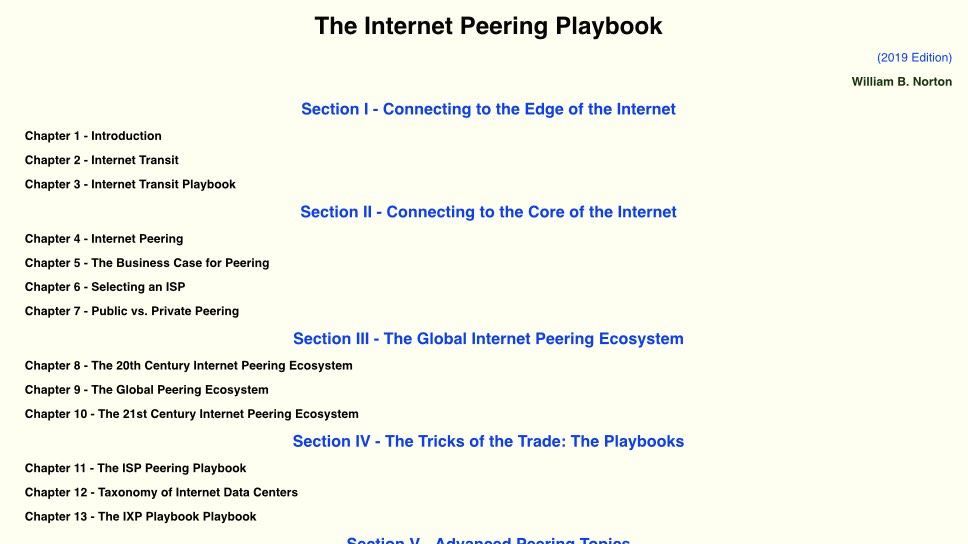
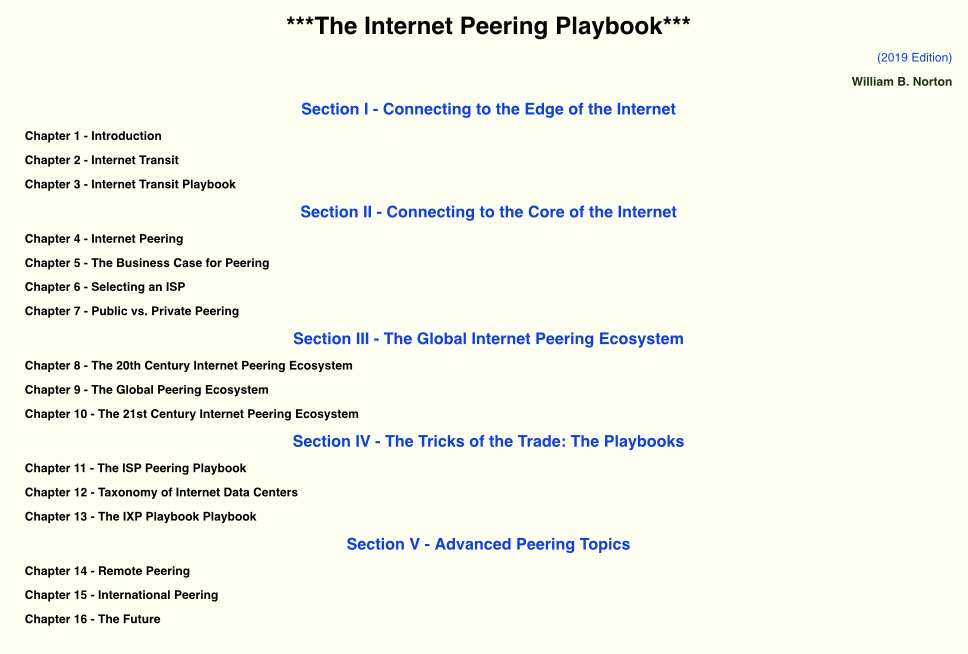
getting set up

diff --git a/index.hyperesources/index_hype_generated_script.js b/index.hyperesources/index_hype_generated_script.js
@@ -3,5 +3,5 @@
 (function(){(function k(){function l(a,b,d){var c=!1;null==window[a]&&(null==window[b]?(window[b]=[],window[b].push(k),a=document.getElementsByTagName("head")[0],b=document.createElement("script"),c=h,false==!0&&(c=""),b.type="text/javascript",b.src=c+"/"+d,a.appendChild(b)):window[b].push(k),c=!0);return c}var h="index.hyperesources",c="index",e="index_hype_container";if(false==!1)try{for(var f=document.getElementsByTagName("script"),
 a=0;a<f.length;a++){var b=f[a].src,d=null!=b?b.indexOf("/index_hype_generated_script.js"):-1;if(-1!=d){h=b.substr(0,d);break}}}catch(n){}if(false==!1&&(a=navigator.userAgent.match(/MSIE (\d+\.\d+)/),a=parseFloat(a&&a[1])||null,a=l("HYPE_596","HYPE_dtl_596",!0==(null!=a&&10>a||false==!0)?"HYPE-596.full.min.js":"HYPE-596.thin.min.js"),false==!0&&(a=a||l("HYPE_w_596","HYPE_wdtl_596","HYPE-596.waypoints.min.js")),a))return;f=window.HYPE.documents;
 if(null!=f[c]){b=1;a=c;do c=""+a+"-"+b++;while(null!=f[c]);d=document.getElementsByTagName("div");b=!1;for(a=0;a<d.length;a++)if(d[a].id==e&&null==d[a].getAttribute("HYP_dn")){var b=1,g=e;do e=""+g+"-"+b++;while(null!=document.getElementById(e));d[a].id=e;b=!0;break}if(!1==b)return}b=[];b=[];d={};g={};for(a=0;a<b.length;a++)try{g[b[a].identifier]=b[a].name,d[b[a].name]=eval("(function(){return "+b[a].source+"})();")}catch(m){window.console&&window.console.log(m),d[b[a].name]=
-function(){}}a=new HYPE_596(c,e,{"0":{n:"jquery-3.2.1.min.js"},"-1":{n:"PIE.htc"},"-2":{n:"blank.gif"}},h,[],d,[{n:"Table of Contents",o:"113",X:[0,1,2]}],[{o:"122",p:"600px",cA:false,Y:320,Z:568,L:[],c:"#FF7B00",bY:1,d:320,U:{},T:{kTimelineDefaultIdentifier:{i:"kTimelineDefaultIdentifier",n:"Main Timeline",z:0,b:[],a:[],f:30}},bZ:180,O:["126"],n:"iPhone","_":0,v:{"126":{G:"#000000",aU:8,c:288,bS:303,aV:8,d:1877,r:"inline",s:"Helvetica,Arial,Sans-Serif",t:16,Z:"break-word",w:"<h1 style=\"text-align: center; \"><font color=\"#050505\" size=\"7\">The Internet Peering Playbook</font></h1><div style=\"text-align: right;\"><font color=\"#0433ff\" size=\"5\">(2019 Edition)</font></div>\n<h2 style=\"text-align: right; \"><font color=\"#053505\">William B. Norton</font></h2>\n<h1 style=\"text-align: center; \"><font color=\"#0433ff\">Section I - Connecting to the Edge of the Internet</font></h1>\n<h2>Chapter 1 - Introduction</h2>\n<h2>Chapter 2 - Internet Transit</h2>\n<h2>Chapter 3 - Internet Transit Playbook</h2>\n<h1 style=\"text-align: center;\"><font color=\"#0433ff\">Section II - Connecting to the Core of the Internet</font></h1>\n<h2>Chapter 4 - Internet Peering</h2>\n<h2>Chapter 5 - The Business Case for Peering</h2>\n<h2>Chapter 6 - Selecting an ISP</h2>\n<h2>Chapter 7 - Public vs. Private Peering</h2>\n<h1 style=\"text-align: center;\"><font color=\"#0433ff\">Section III - The Global Internet Peering Ecosystem</font></h1>\n<h2>Chapter 8 - The 20th Century Internet Peering Ecosystem</h2>\n<h2>Chapter 9 - The Global Peering Ecosystem</h2>\n<h2>Chapter 10 - The 21st Century Internet Peering Ecosystem</h2>\n<h1 style=\"text-align: center;\"><font color=\"#0433ff\">Section IV - The Tricks of the Trade: The Playbooks</font></h1>\n<h2>Chapter 11 - The ISP Peering Playbook</h2>\n<h2>Chapter 12 - Taxonomy of Internet Data Centers</h2>\n<h2>Chapter 13 - The IXP Playbook Playbook</h2>\n\n\n<h1 style=\"text-align: center;\"><font color=\"#0433ff\">Section V - Advanced Peering Topics</font></h1>\n<h2>Chapter 14 - Remote Peering</h2>\n<h2>Chapter 15 - International Peering</h2>\n<h2>Chapter 16 - The Future</h2>",j:"absolute",x:"scroll",k:"div",y:"preserve",z:1,aS:8,aT:8,a:8,b:0}}},{o:"125",p:"600px",cA:false,Y:768,Z:1024,L:[],c:"#FF7B00",bY:1,d:768,U:{},T:{kTimelineDefaultIdentifier:{i:"kTimelineDefaultIdentifier",n:"Main Timeline",z:0,b:[],a:[],f:30}},bZ:180,O:["127"],n:"iPad Portrait","_":1,v:{"127":{G:"#000000",aU:8,c:728,bS:303,aV:8,d:1877,r:"inline",s:"Helvetica,Arial,Sans-Serif",t:16,Z:"break-word",w:"<h1 style=\"text-align: center; \"><font color=\"#050505\" size=\"7\">The Internet Peering Playbook</font></h1><div style=\"text-align: right;\"><font color=\"#0433ff\" size=\"5\">(2019 Edition)</font></div>\n<h2 style=\"text-align: right; \"><font color=\"#053505\">William B. Norton</font></h2>\n<h1 style=\"text-align: center; \"><font color=\"#0433ff\">Section I - Connecting to the Edge of the Internet</font></h1>\n<h2>Chapter 1 - Introduction</h2>\n<h2>Chapter 2 - Internet Transit</h2>\n<h2>Chapter 3 - Internet Transit Playbook</h2>\n<h1 style=\"text-align: center;\"><font color=\"#0433ff\">Section II - Connecting to the Core of the Internet</font></h1>\n<h2>Chapter 4 - Internet Peering</h2>\n<h2>Chapter 5 - The Business Case for Peering</h2>\n<h2>Chapter 6 - Selecting an ISP</h2>\n<h2>Chapter 7 - Public vs. Private Peering</h2>\n<h1 style=\"text-align: center;\"><font color=\"#0433ff\">Section III - The Global Internet Peering Ecosystem</font></h1>\n<h2>Chapter 8 - The 20th Century Internet Peering Ecosystem</h2>\n<h2>Chapter 9 - The Global Peering Ecosystem</h2>\n<h2>Chapter 10 - The 21st Century Internet Peering Ecosystem</h2>\n<h1 style=\"text-align: center;\"><font color=\"#0433ff\">Section IV - The Tricks of the Trade: The Playbooks</font></h1>\n<h2>Chapter 11 - The ISP Peering Playbook</h2>\n<h2>Chapter 12 - Taxonomy of Internet Data Centers</h2>\n<h2>Chapter 13 - The IXP Playbook Playbook</h2>\n\n\n<h1 style=\"text-align: center;\"><font color=\"#0433ff\">Section V - Advanced Peering Topics</font></h1>\n<h2>Chapter 14 - Remote Peering</h2>\n<h2>Chapter 15 - International Peering</h2>\n<h2>Chapter 16 - The Future</h2>",j:"absolute",x:"scroll",k:"div",y:"preserve",z:1,aS:8,aT:8,a:8,b:0}}},{o:"115",p:"600px",cA:false,Y:1920,Z:1080,L:[],c:"#FFFFEE",bY:1,d:1920,U:{},T:{kTimelineDefaultIdentifier:{i:"kTimelineDefaultIdentifier",n:"Main Timeline",z:0,b:[],a:[],f:30}},bZ:180,O:["128"],n:"Desktop","_":2,v:{"128":{G:"#000000",aU:8,c:1840,bS:303,aV:8,d:1877,r:"inline",s:"Helvetica,Arial,Sans-Serif",t:16,Z:"break-word",w:"<h1 style=\"text-align: center; \"><font color=\"#050505\" size=\"7\">***The Internet Peering Playbook***</font></h1><div style=\"text-align: right;\"><font color=\"#0433ff\" size=\"5\">(2019 Edition)</font></div>\n<h2 style=\"text-align: right; \"><font color=\"#053505\">William B. Norton</font></h2>\n<h1 style=\"text-align: center; \"><font color=\"#0433ff\">Section I - Connecting to the Edge of the Internet</font></h1>\n<h2>Chapter 1 - Introduction</h2>\n<h2>Chapter 2 - Internet Transit</h2>\n<h2>Chapter 3 - Internet Transit Playbook</h2>\n<h1 style=\"text-align: center;\"><font color=\"#0433ff\">Section II - Connecting to the Core of the Internet</font></h1>\n<h2>Chapter 4 - Internet Peering</h2>\n<h2>Chapter 5 - The Business Case for Peering</h2>\n<h2>Chapter 6 - Selecting an ISP</h2>\n<h2>Chapter 7 - Public vs. Private Peering</h2>\n<h1 style=\"text-align: center;\"><font color=\"#0433ff\">Section III - The Global Internet Peering Ecosystem</font></h1>\n<h2>Chapter 8 - The 20th Century Internet Peering Ecosystem</h2>\n<h2>Chapter 9 - The Global Peering Ecosystem</h2>\n<h2>Chapter 10 - The 21st Century Internet Peering Ecosystem</h2>\n<h1 style=\"text-align: center;\"><font color=\"#0433ff\">Section IV - The Tricks of the Trade: The Playbooks</font></h1>\n<h2>Chapter 11 - The ISP Peering Playbook</h2>\n<h2>Chapter 12 - Taxonomy of Internet Data Centers</h2>\n<h2>Chapter 13 - The IXP Playbook Playbook</h2>\n\n\n<h1 style=\"text-align: center;\"><font color=\"#0433ff\">Section V - Advanced Peering Topics</font></h1>\n<h2>Chapter 14 - Remote Peering</h2>\n<h2>Chapter 15 - International Peering</h2>\n<h2>Chapter 16 - The Future</h2>",j:"absolute",x:"scroll",k:"div",y:"preserve",z:1,aS:8,aT:8,a:41,b:-6}}}],{},g,{},null,false,true,-1,true,true,true,true);f[c]=a.API;document.getElementById(e).setAttribute("HYP_dn",
+function(){}}a=new HYPE_596(c,e,{"0":{n:"jquery-3.2.1.min.js"},"-1":{n:"PIE.htc"},"-2":{n:"blank.gif"}},h,[],d,[{n:"Table of Contents",o:"113",X:[0,1,2]}],[{o:"122",p:"600px",cA:false,Y:320,Z:568,L:[],c:"#FF7B00",bY:1,d:320,U:{},T:{kTimelineDefaultIdentifier:{i:"kTimelineDefaultIdentifier",n:"Main Timeline",z:0,b:[],a:[],f:30}},bZ:180,O:["126"],n:"iPhone","_":0,v:{"126":{G:"#000000",aU:8,c:288,bS:303,aV:8,d:1877,r:"inline",s:"Helvetica,Arial,Sans-Serif",t:16,Z:"break-word",w:"<h1 style=\"text-align: center; \"><font color=\"#050505\" size=\"7\">The Internet Peering Playbook</font></h1><div style=\"text-align: right;\"><font color=\"#0433ff\" size=\"5\">(2019 Edition)</font></div>\n<h2 style=\"text-align: right; \"><font color=\"#053505\">William B. Norton</font></h2>\n<h1 style=\"text-align: center; \"><font color=\"#0433ff\">Section I - Connecting to the Edge of the Internet</font></h1>\n<h2>Chapter 1 - Introduction</h2>\n<h2>Chapter 2 - Internet Transit</h2>\n<h2>Chapter 3 - Internet Transit Playbook</h2>\n<h1 style=\"text-align: center;\"><font color=\"#0433ff\">Section II - Connecting to the Core of the Internet</font></h1>\n<h2>Chapter 4 - Internet Peering</h2>\n<h2>Chapter 5 - The Business Case for Peering</h2>\n<h2>Chapter 6 - Selecting an ISP</h2>\n<h2>Chapter 7 - Public vs. Private Peering</h2>\n<h1 style=\"text-align: center;\"><font color=\"#0433ff\">Section III - The Global Internet Peering Ecosystem</font></h1>\n<h2>Chapter 8 - The 20th Century Internet Peering Ecosystem</h2>\n<h2>Chapter 9 - The Global Peering Ecosystem</h2>\n<h2>Chapter 10 - The 21st Century Internet Peering Ecosystem</h2>\n<h1 style=\"text-align: center;\"><font color=\"#0433ff\">Section IV - The Tricks of the Trade: The Playbooks</font></h1>\n<h2>Chapter 11 - The ISP Peering Playbook</h2>\n<h2>Chapter 12 - Taxonomy of Internet Data Centers</h2>\n<h2>Chapter 13 - The IXP Playbook Playbook</h2>\n\n\n<h1 style=\"text-align: center;\"><font color=\"#0433ff\">Section V - Advanced Peering Topics</font></h1>\n<h2>Chapter 14 - Remote Peering</h2>\n<h2>Chapter 15 - International Peering</h2>\n<h2>Chapter 16 - The Future</h2>",j:"absolute",x:"scroll",k:"div",y:"preserve",z:1,aS:8,aT:8,a:8,b:0}}},{o:"125",p:"600px",cA:false,Y:768,Z:1024,L:[],c:"#FF7B00",bY:1,d:768,U:{},T:{kTimelineDefaultIdentifier:{i:"kTimelineDefaultIdentifier",n:"Main Timeline",z:0,b:[],a:[],f:30}},bZ:180,O:["127"],n:"iPad Portrait","_":1,v:{"127":{G:"#000000",aU:8,c:728,bS:303,aV:8,d:1877,r:"inline",s:"Helvetica,Arial,Sans-Serif",t:16,Z:"break-word",w:"<h1 style=\"text-align: center; \"><font color=\"#050505\" size=\"7\">The Internet Peering Playbook</font></h1><div style=\"text-align: right;\"><font color=\"#0433ff\" size=\"5\">(2019 Edition)</font></div>\n<h2 style=\"text-align: right; \"><font color=\"#053505\">William B. Norton</font></h2>\n<h1 style=\"text-align: center; \"><font color=\"#0433ff\">Section I - Connecting to the Edge of the Internet</font></h1>\n<h2>Chapter 1 - Introduction</h2>\n<h2>Chapter 2 - Internet Transit</h2>\n<h2>Chapter 3 - Internet Transit Playbook</h2>\n<h1 style=\"text-align: center;\"><font color=\"#0433ff\">Section II - Connecting to the Core of the Internet</font></h1>\n<h2>Chapter 4 - Internet Peering</h2>\n<h2>Chapter 5 - The Business Case for Peering</h2>\n<h2>Chapter 6 - Selecting an ISP</h2>\n<h2>Chapter 7 - Public vs. Private Peering</h2>\n<h1 style=\"text-align: center;\"><font color=\"#0433ff\">Section III - The Global Internet Peering Ecosystem</font></h1>\n<h2>Chapter 8 - The 20th Century Internet Peering Ecosystem</h2>\n<h2>Chapter 9 - The Global Peering Ecosystem</h2>\n<h2>Chapter 10 - The 21st Century Internet Peering Ecosystem</h2>\n<h1 style=\"text-align: center;\"><font color=\"#0433ff\">Section IV - The Tricks of the Trade: The Playbooks</font></h1>\n<h2>Chapter 11 - The ISP Peering Playbook</h2>\n<h2>Chapter 12 - Taxonomy of Internet Data Centers</h2>\n<h2>Chapter 13 - The IXP Playbook Playbook</h2>\n\n\n<h1 style=\"text-align: center;\"><font color=\"#0433ff\">Section V - Advanced Peering Topics</font></h1>\n<h2>Chapter 14 - Remote Peering</h2>\n<h2>Chapter 15 - International Peering</h2>\n<h2>Chapter 16 - The Future</h2>",j:"absolute",x:"scroll",k:"div",y:"preserve",z:1,aS:8,aT:8,a:8,b:0}}},{o:"115",p:"600px",cA:false,Y:1920,Z:1299,L:[],c:"#FFFFEE",bY:1,d:1920,U:{},T:{kTimelineDefaultIdentifier:{i:"kTimelineDefaultIdentifier",n:"Main Timeline",z:0,b:[],a:[],f:30}},bZ:180,O:["128"],n:"Desktop","_":2,v:{"128":{G:"#000000",aU:8,c:1840,bS:303,aV:8,d:1289,r:"inline",s:"Helvetica,Arial,Sans-Serif",t:16,Z:"break-word",w:"<h1 style=\"text-align: center; \"><font color=\"#050505\" size=\"7\">***The Internet Peering Playbook***</font></h1><div style=\"text-align: right;\"><font color=\"#0433ff\" size=\"5\">(2019 Edition)</font></div>\n<h2 style=\"text-align: right; \"><font color=\"#053505\">William B. Norton</font></h2>\n<h1 style=\"text-align: center; \"><font color=\"#0433ff\">Section I - Connecting to the Edge of the Internet</font></h1>\n<h2>Chapter 1 - Introduction</h2>\n<h2>Chapter 2 - Internet Transit</h2>\n<h2>Chapter 3 - Internet Transit Playbook</h2>\n<h1 style=\"text-align: center;\"><font color=\"#0433ff\">Section II - Connecting to the Core of the Internet</font></h1>\n<h2>Chapter 4 - Internet Peering</h2>\n<h2>Chapter 5 - The Business Case for Peering</h2>\n<h2>Chapter 6 - Selecting an ISP</h2>\n<h2>Chapter 7 - Public vs. Private Peering</h2>\n<h1 style=\"text-align: center;\"><font color=\"#0433ff\">Section III - The Global Internet Peering Ecosystem</font></h1>\n<h2>Chapter 8 - The 20th Century Internet Peering Ecosystem</h2>\n<h2>Chapter 9 - The Global Peering Ecosystem</h2>\n<h2>Chapter 10 - The 21st Century Internet Peering Ecosystem</h2>\n<h1 style=\"text-align: center;\"><font color=\"#0433ff\">Section IV - The Tricks of the Trade: The Playbooks</font></h1>\n<h2>Chapter 11 - The ISP Peering Playbook</h2>\n<h2>Chapter 12 - Taxonomy of Internet Data Centers</h2>\n<h2>Chapter 13 - The IXP Playbook Playbook</h2>\n<h1 style=\"text-align: center;\"><font color=\"#0433ff\">Section V - Advanced Peering Topics</font></h1>\n<h2>Chapter 14 - Remote Peering</h2>\n<h2>Chapter 15 - International Peering</h2>\n<h2>Chapter 16 - The Future</h2>",j:"absolute",x:"scroll",k:"div",y:"preserve",z:1,aS:8,aT:8,a:41,b:-6}}}],{},g,{},null,false,true,-1,true,true,true,true);f[c]=a.API;document.getElementById(e).setAttribute("HYP_dn",
 c);a.z_o(this.body)})();})();

diff --git a/index.html b/index.html
@@ -35,7 +35,7 @@ $(document).ready(function() {
 	<!-- copy these lines to your document: -->
 
 	<div id="index_hype_container" style="margin:auto;position:relative;width:320px;height:568px;overflow:hidden;">
-		<script type="text/javascript" charset="utf-8" src="index.hyperesources/index_hype_generated_script.js?36043"></script>
+		<script type="text/javascript" charset="utf-8" src="index.hyperesources/index_hype_generated_script.js?68615"></script>
 	</div>
 
 	<!-- end copy -->
